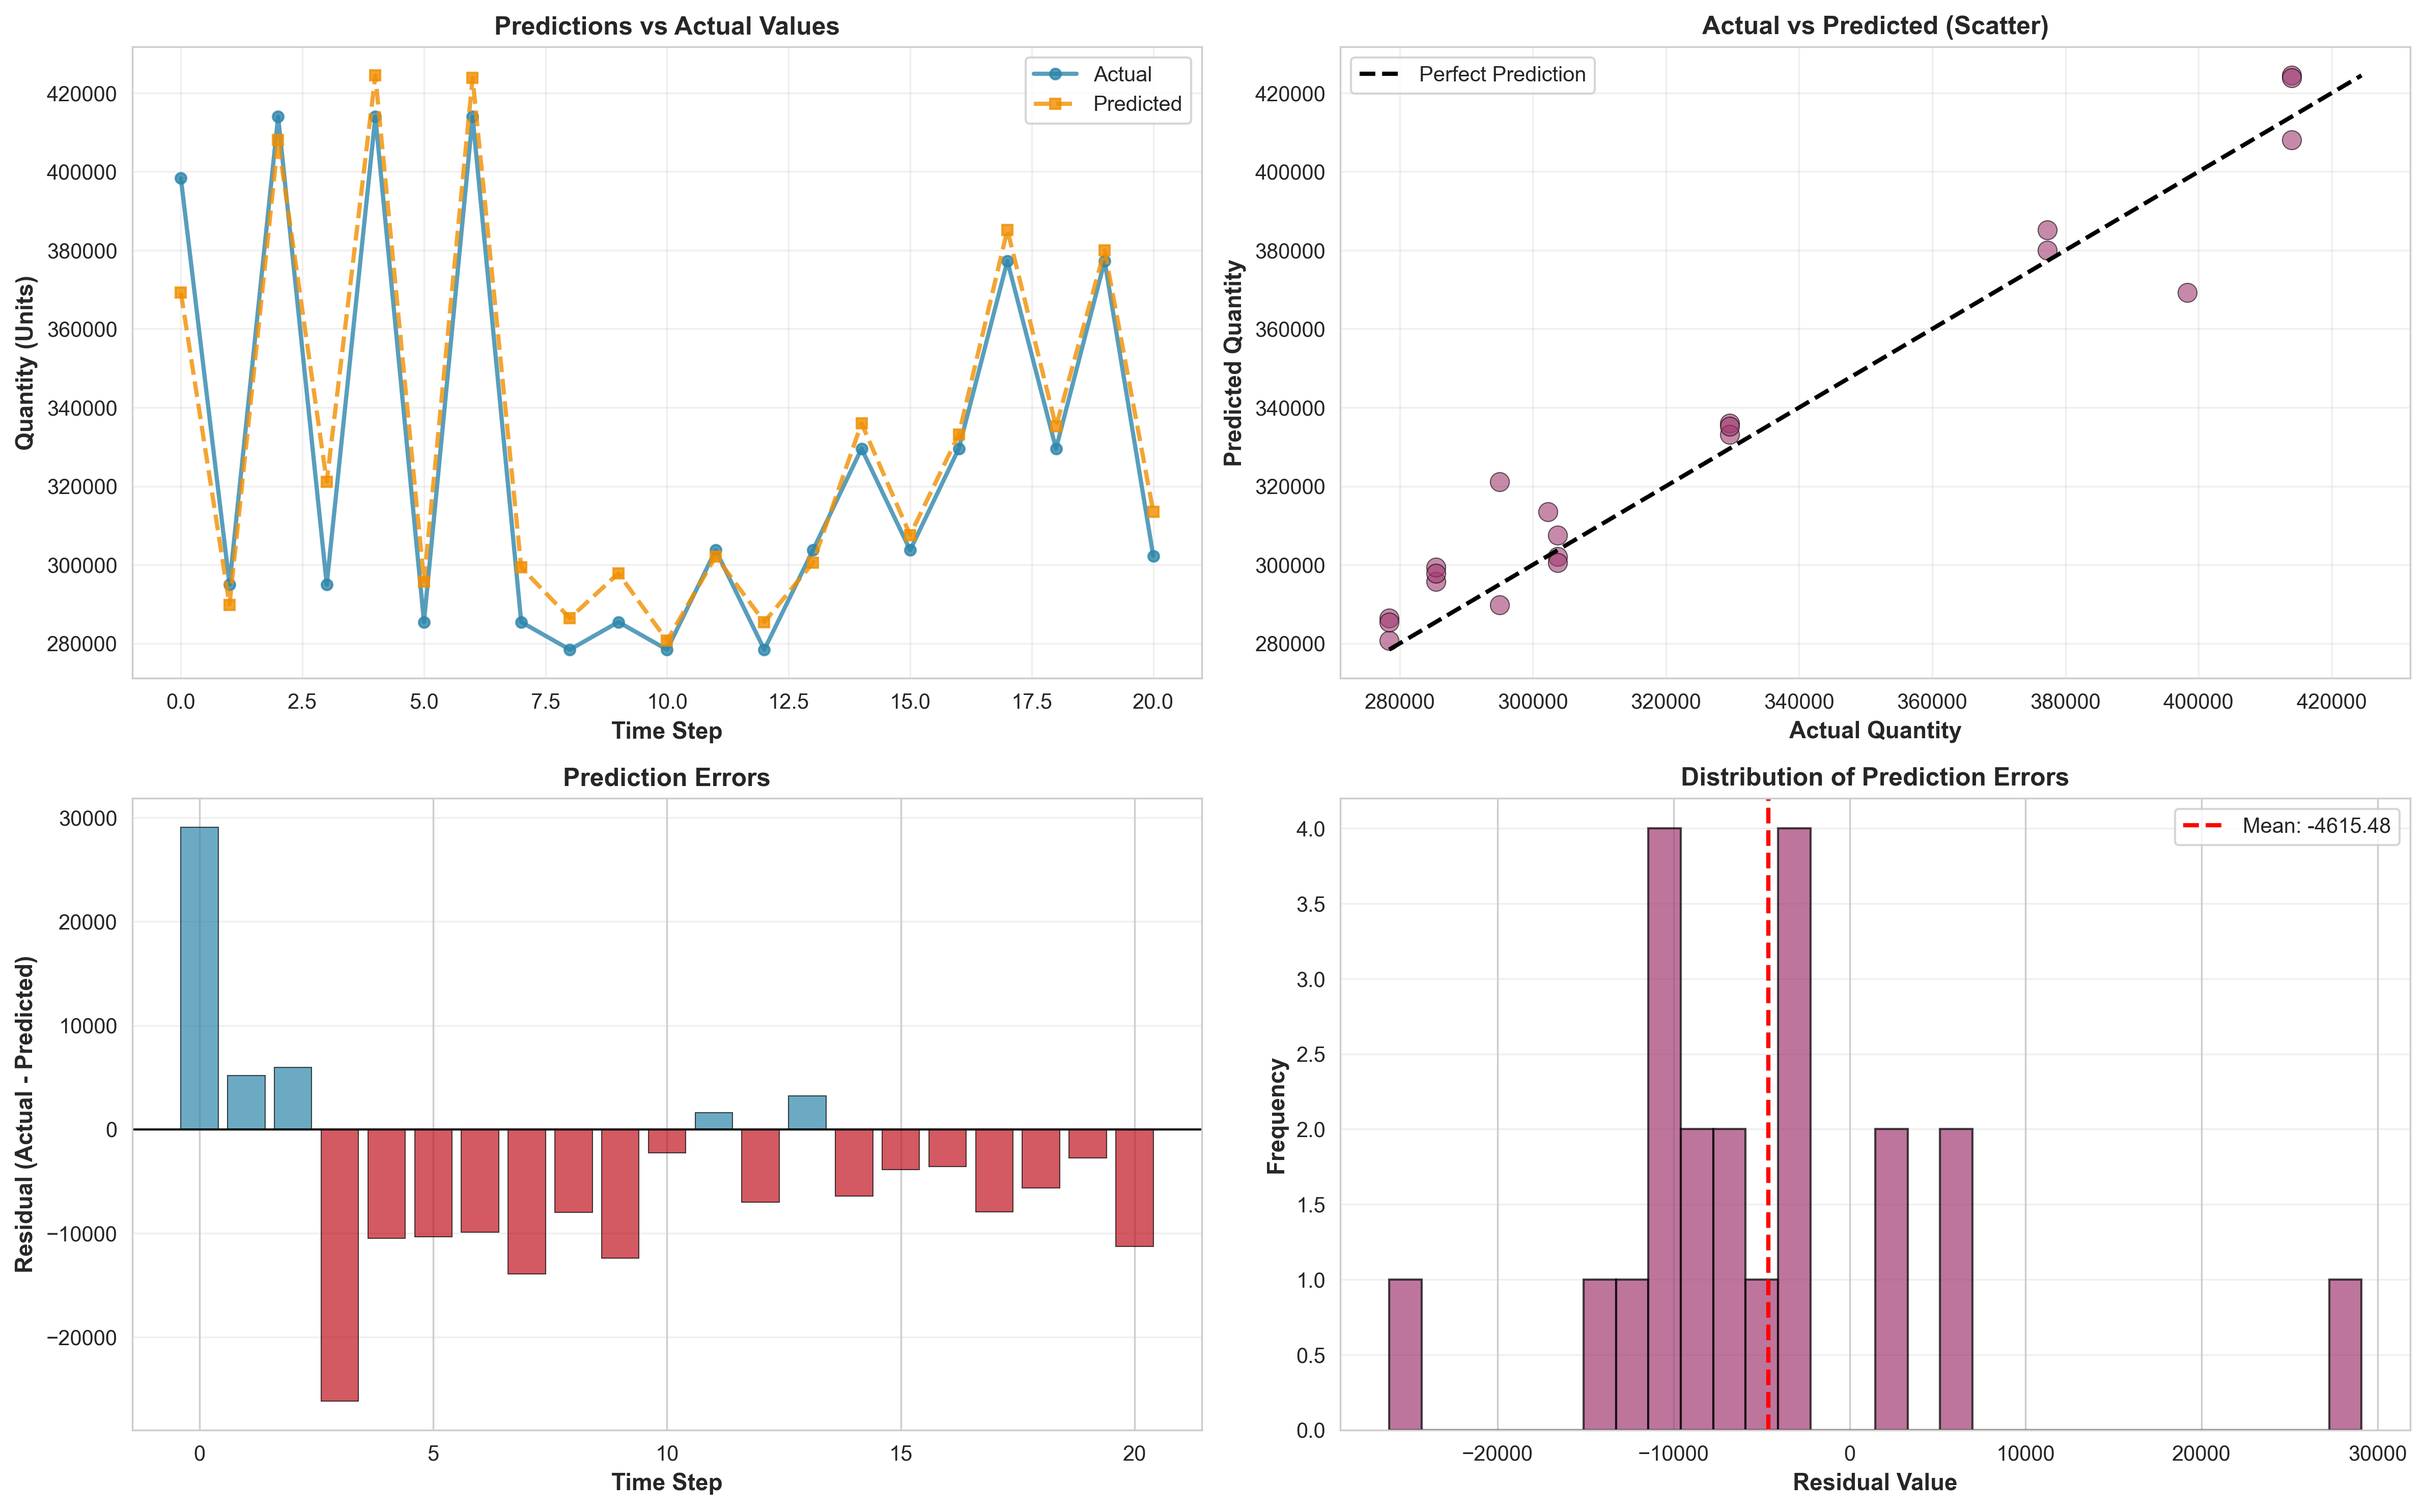
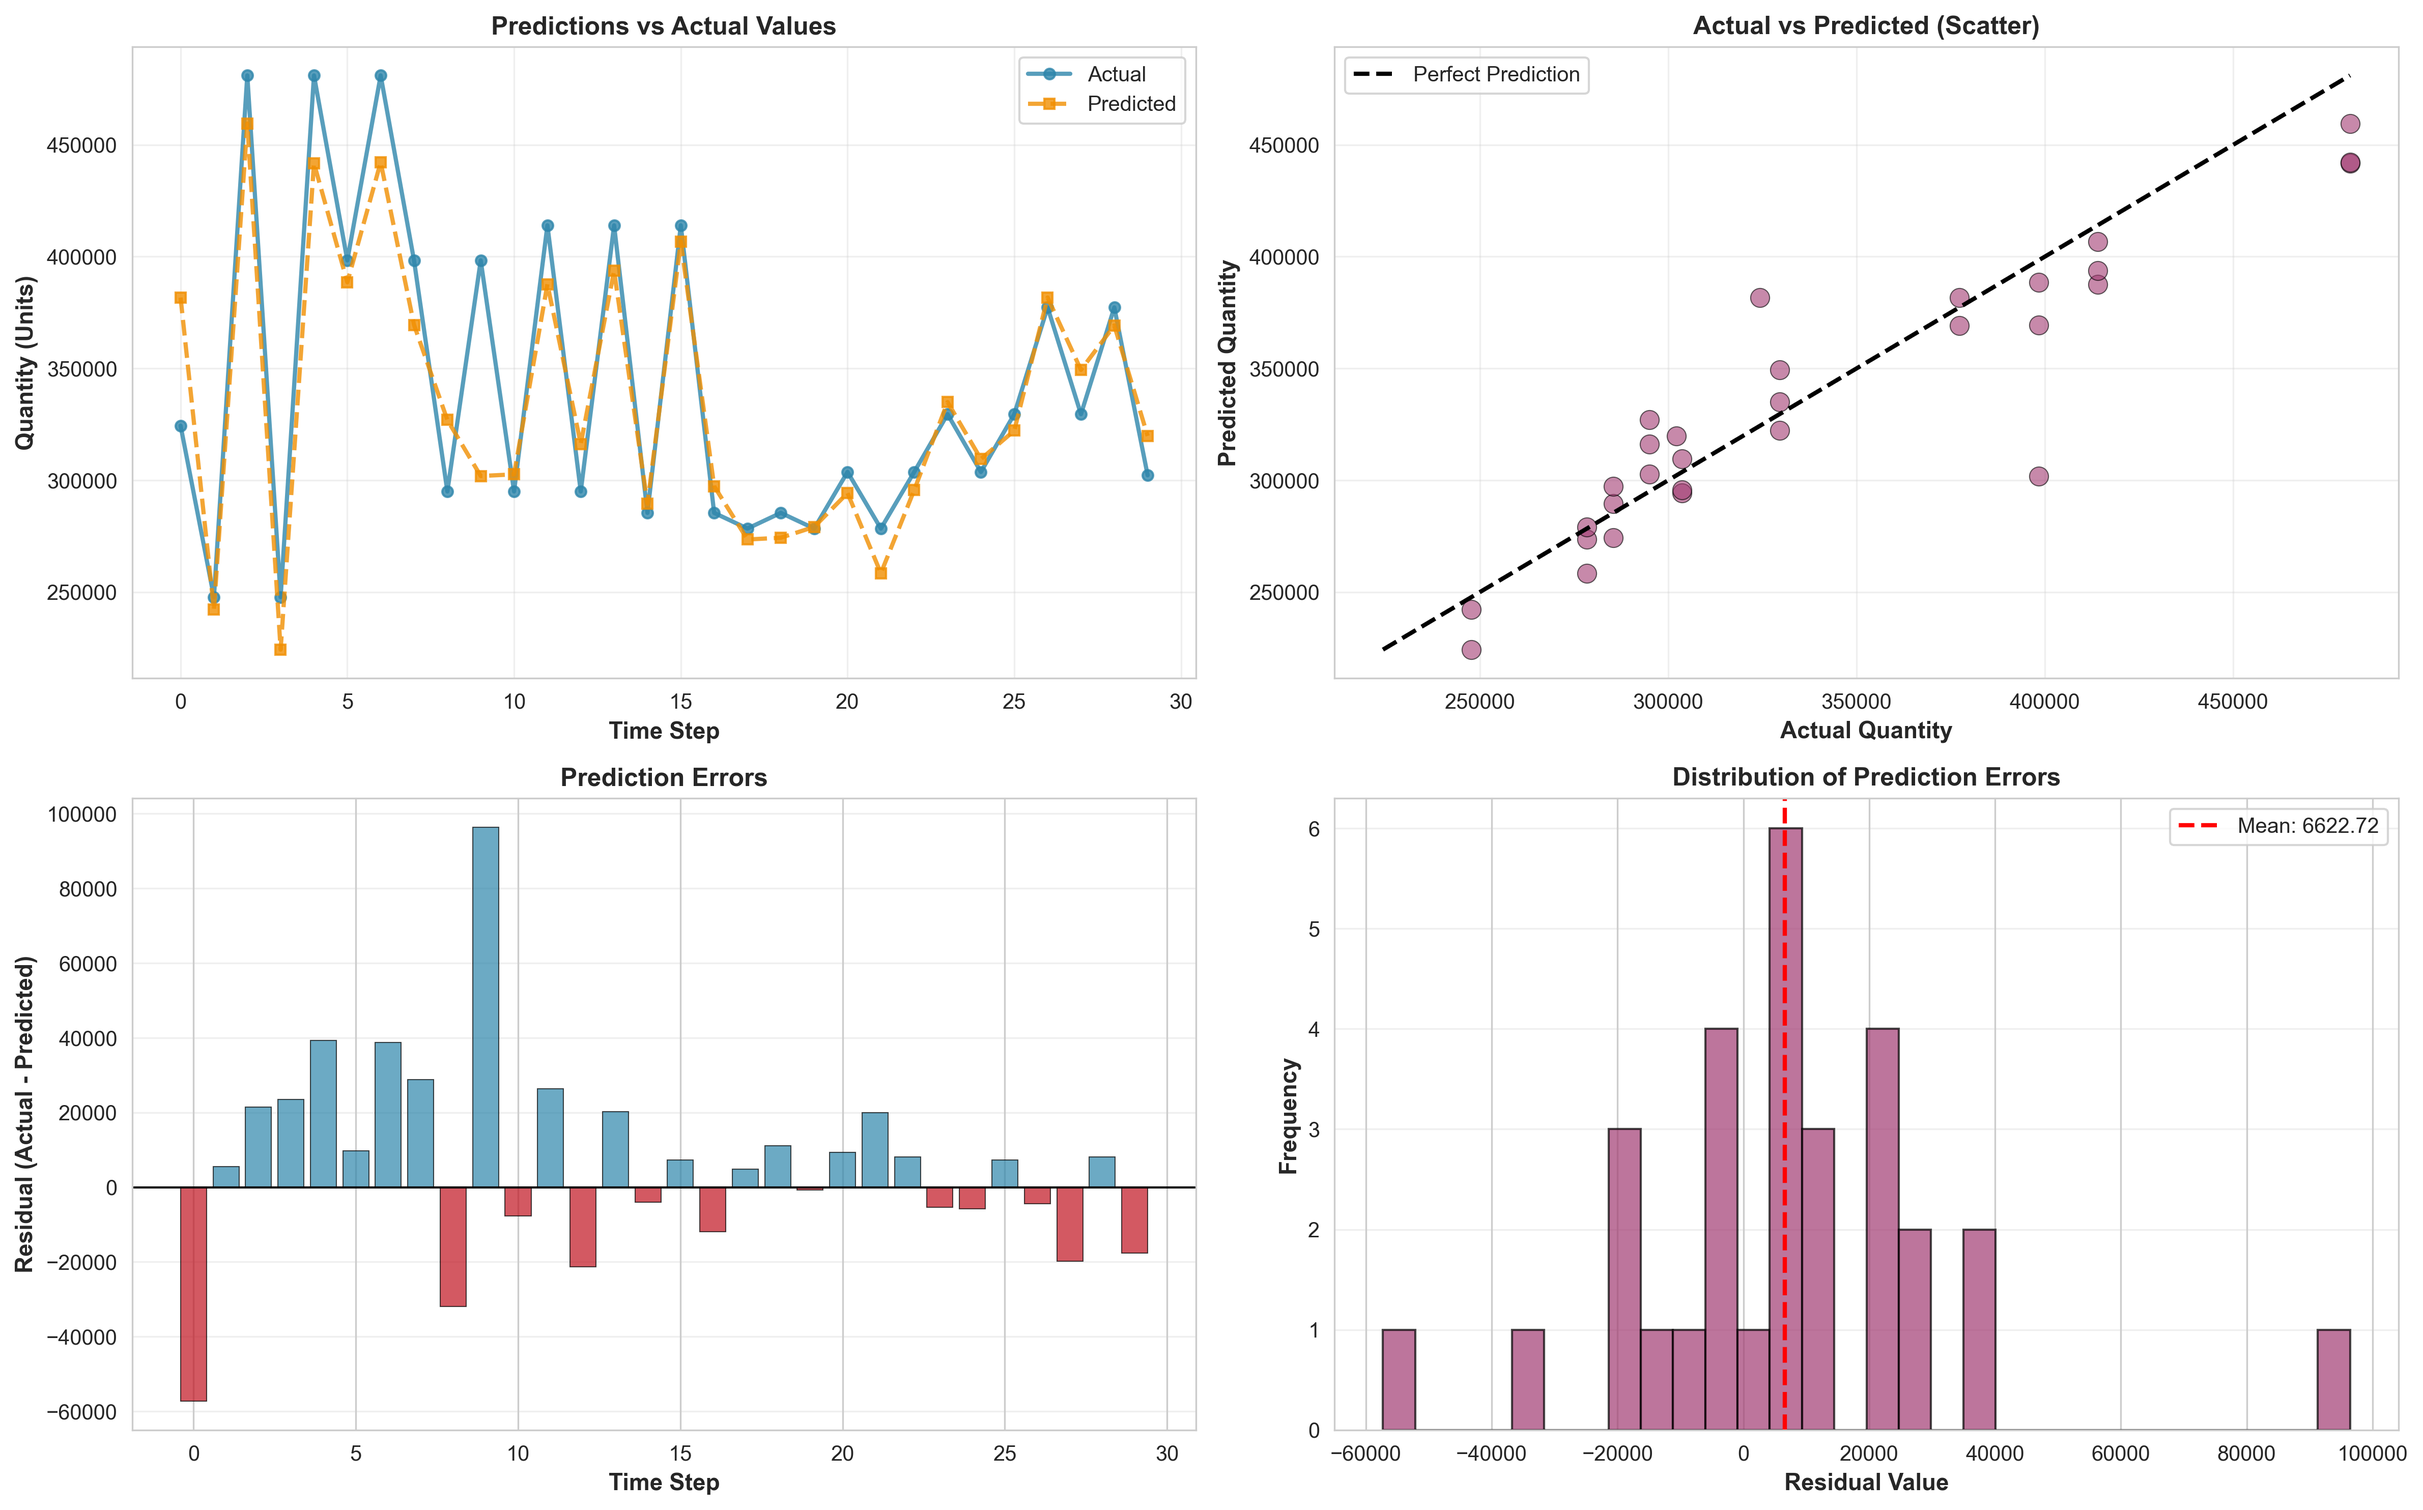
Finish Fundamental RevIN Mixer

diff --git a/main.py b/main.py
@@ -3,13 +3,13 @@ from src.trainers.RevINMixer import Scenario1Trainer, Scenario2Trainer
 SCENARIO = 2
 VAL_METRIC = "tc"      
 
-SEQ_LENGTH = 12
+SEQ_LENGTH = 9
 PRED_LEN = 3
-N_BLOCK = 1
+N_BLOCK = 2
 FF_DIM = 128
 DROPOUT = 0.1
 
-BATCH_SIZE = 4
+BATCH_SIZE = 2
 LR = 1e-4
 EPOCHS = 2000
 PATIENCE = 100
